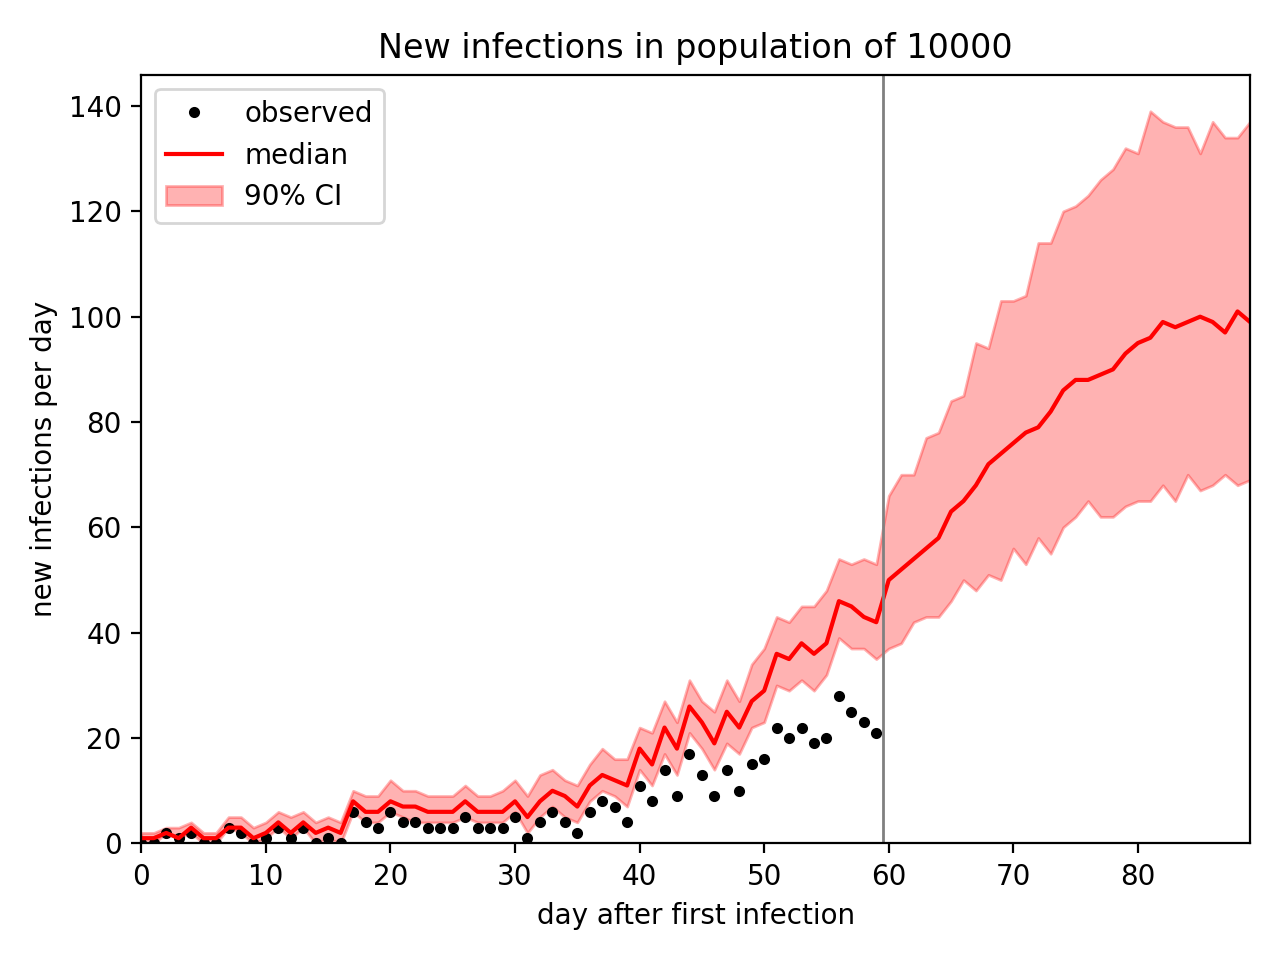
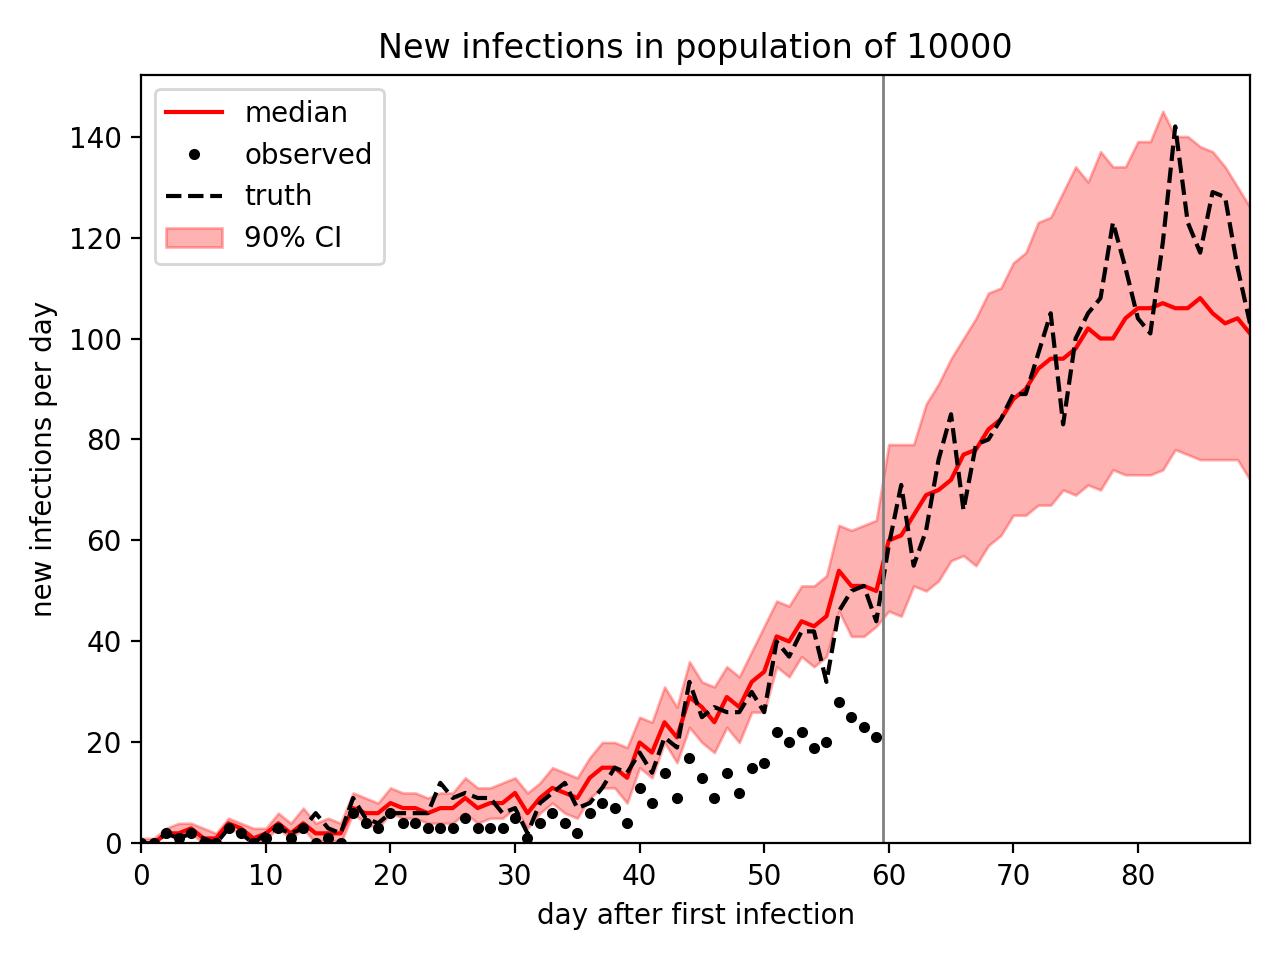
Fix recovery_time to known value in SIR models (#2429)
* Generate and plot forecasted true new infections

* Fix recovery time to known value

diff --git a/examples/sir_hmc.py b/examples/sir_hmc.py
@@ -62,8 +62,8 @@ logging.basicConfig(format='%(message)s', level=logging.INFO)
 # return -inf.
 
 def global_model(population):
+    tau = args.recovery_time  # Assume this can be measured exactly.
     R0 = pyro.sample("R0", dist.LogNormal(0., 1.))
-    tau = pyro.sample("tau", dist.LogNormal(math.log(7.), 1.))
     rho = pyro.sample("rho", dist.Uniform(0, 1))
 
     # Convert interpretable parameters to distribution parameters.
@@ -98,9 +98,8 @@ def discrete_model(data, population):
 def generate_data(args):
     logging.info("Generating data...")
     params = {"R0": torch.tensor(args.basic_reproduction_number),
-              "tau": torch.tensor(args.recovery_time),
               "rho": torch.tensor(args.response_rate)}
-    empty_data = [None] * args.duration
+    empty_data = [None] * (args.duration + args.forecast)
 
     # We'll retry until we get an actual outbreak.
     for attempt in range(100):
@@ -108,13 +107,21 @@ def generate_data(args):
             with poutine.condition(data=params):
                 discrete_model(empty_data, args.population)
 
-        data = torch.stack([site["value"]
-                            for site in tr.trace.nodes.values()
-                            if site["name"].startswith("obs_")])
-        if data.sum() >= args.min_observations:
-            logging.info("Generated {:0.0f} observed infections:\n{}"
-                         .format(data.sum(), " ".join([str(int(x)) for x in data])))
-            return data
+        # Concatenate sequential time series into tensors.
+        obs = torch.stack([site["value"]
+                           for name, site in tr.trace.nodes.items()
+                           if re.match("obs_[0-9]+", name)])
+        S2I = torch.stack([site["value"]
+                          for name, site in tr.trace.nodes.items()
+                          if re.match("S2I_[0-9]+", name)])
+        assert len(obs) == len(empty_data)
+
+        obs_sum = int(obs[:args.duration].sum())
+        S2I_sum = int(S2I[:args.duration].sum())
+        if obs_sum >= args.min_observations:
+            logging.info("Observed {:d}/{:d} infections:\n{}".format(
+                obs_sum, S2I_sum, " ".join([str(int(x)) for x in obs[:args.duration]])))
+            return {"S2I": S2I, "obs": obs}
 
     raise ValueError("Failed to generate {} observations. Try increasing "
                      "--population or decreasing --min-observations"
@@ -193,7 +200,7 @@ def infer_hmc_enum(args, data):
 def _infer_hmc(args, data, model, init_values={}):
     logging.info("Running inference...")
     kernel = NUTS(model,
-                  full_mass=[("R0", "tau", "rho")],
+                  full_mass=[("R0", "rho")],
                   max_tree_depth=args.max_tree_depth,
                   init_strategy=init_to_value(values=init_values),
                   jit_compile=args.jit, ignore_jit_warnings=True)
@@ -318,7 +325,6 @@ def heuristic_init(args, data):
                           DiscreteCosineTransform(dim=-1)])
 
     return {
-        "tau": torch.tensor(10.0),
         "R0": torch.tensor(2.0),
         "rho": torch.tensor(0.5),
         "S_aux": S_aux,
@@ -429,7 +435,6 @@ def vectorized_model(data, population):
 def evaluate(args, samples):
     # Print estimated values.
     names = {"basic_reproduction_number": "R0",
-             "recovery_time": "tau",
              "response_rate": "rho"}
     for name, key in names.items():
         mean = samples[key].mean().item()
@@ -441,7 +446,7 @@ def evaluate(args, samples):
     if args.plot:
         import matplotlib.pyplot as plt
         import seaborn as sns
-        fig, axes = plt.subplots(3, 1, figsize=(5, 8))
+        fig, axes = plt.subplots(2, 1, figsize=(5, 5))
         axes[0].set_title("Posterior parameter estimates")
         for ax, (name, key) in zip(axes, names.items()):
             truth = getattr(args, name)
@@ -468,7 +473,7 @@ def evaluate(args, samples):
 # generated via infer_hmc_cont(vectorized_model, ...).
 
 @torch.no_grad()
-def predict(args, data, samples):
+def predict(args, data, samples, truth=None):
     logging.info("Forecasting {} steps ahead...".format(args.forecast))
     particle_plate = pyro.plate("particles", args.num_samples, dim=-1)
 
@@ -517,9 +522,11 @@ def predict(args, data, samples):
         time = torch.arange(len(data) + args.forecast)
         p05 = S2I.kthvalue(int(round(0.5 + 0.05 * args.num_samples)), dim=0).values
         p95 = S2I.kthvalue(int(round(0.5 + 0.95 * args.num_samples)), dim=0).values
-        plt.plot(time[:len(data)], data, "k.", label="observed")
-        plt.plot(time, median, "r-", label="median")
         plt.fill_between(time, p05, p95, color="red", alpha=0.3, label="90% CI")
+        plt.plot(time, median, "r-", label="median")
+        plt.plot(time[:len(data)], data, "k.", label="observed")
+        if truth is not None:
+            plt.plot(time, truth, "k--", label="truth")
         plt.axvline(args.duration - 0.5, color="gray", lw=1)
         plt.xlim(0, len(time) - 1)
         plt.ylim(0, None)
@@ -545,22 +552,23 @@ def main(args):
     pyro.enable_validation(__debug__)
     pyro.set_rng_seed(args.rng_seed)
 
-    data = generate_data(args)
+    dataset = generate_data(args)
+    obs = dataset["obs"][:args.duration]
 
     # Choose among inference methods.
     if args.enum:
-        samples = infer_hmc_enum(args, data)
+        samples = infer_hmc_enum(args, obs)
     elif args.sequential:
-        samples = infer_hmc_cont(continuous_model, args, data)
+        samples = infer_hmc_cont(continuous_model, args, obs)
     else:
-        samples = infer_hmc_cont(vectorized_model, args, data)
+        samples = infer_hmc_cont(vectorized_model, args, obs)
 
     # Evaluate fit.
     evaluate(args, samples)
 
     # Predict latent time series.
     if args.forecast:
-        samples = predict(args, data, samples)
+        samples = predict(args, obs, samples, truth=dataset["S2I"])
 
     return samples
 

diff --git a/tutorial/source/sir_hmc.rst b/tutorial/source/sir_hmc.rst
@@ -13,23 +13,26 @@ another 30 days. This takes about 3 minutes on my laptop.
 
 .. code-block:: none
 
-    $ python -O examples/sir_hmc.py -p 10000 -d 60 -f 30 --plot
-    ...
-    Generated 452 observed infections:
+    $ python examples/sir_hmc.py -p 10000 -d 60 -f 30 --plot
+    Generating data...
+    Observed 452/871 infections:
     0 0 2 1 2 0 0 3 2 0 1 3 1 3 0 1 0 6 4 3 6 4 4 3 3 3 5 3 3 3 5 1 4 6 4 2 6 8 7 4 11 8 14 9 17 13 9 14 10 15 16 22 20 22 19 20 28 25 23 21
     Running inference...
-    Sample: 100%|==========================| 300/300 [02:52,  1.74it/s, step size=1.12e-01, acc. prob=0.747]
+    Sample: 100%|=========================| 300/300 [02:35,  1.93it/s, step size=9.67e-02, acc. prob=0.878]
 
-                mean       std    median      5.0%     95.0%     n_eff     r_hat
-        R0      1.41      0.13      1.39      1.21      1.63      7.03      1.14
-       tau      7.46      1.32      7.01      5.65      9.68      5.38      1.29
-       rho      0.55      0.03      0.55      0.49      0.59      4.83      1.44
-       ...
+                    mean       std    median      5.0%     95.0%     n_eff     r_hat
+            R0      1.40      0.07      1.40      1.28      1.49     26.56      1.06
+           rho      0.47      0.02      0.47      0.44      0.52      7.08      1.22
+      S_aux[0]   9998.74      0.64   9998.75   9997.84   9999.67     28.74      1.00
+      S_aux[1]   9998.37      0.72   9998.38   9997.28   9999.44     52.24      1.02
+      ...
+      I_aux[0]      1.11      0.64      0.99      0.19      2.02     22.01      1.00
+      I_aux[1]      1.55      0.74      1.65      0.05      2.47     10.05      1.10
+      ...
 
     Number of divergences: 0
-    R0: truth = 1.5, estimate = 1.41 ± 0.134
-    tau: truth = 7, estimate = 7.46 ± 1.32
-    rho: truth = 0.5, estimate = 0.546 ± 0.0297
+    R0: truth = 1.5, estimate = 1.4 ± 0.0654
+    rho: truth = 0.5, estimate = 0.475 ± 0.023
 
 .. image:: _static/img/sir_hmc/forecast.png
     :alt: Forecast of new infections
